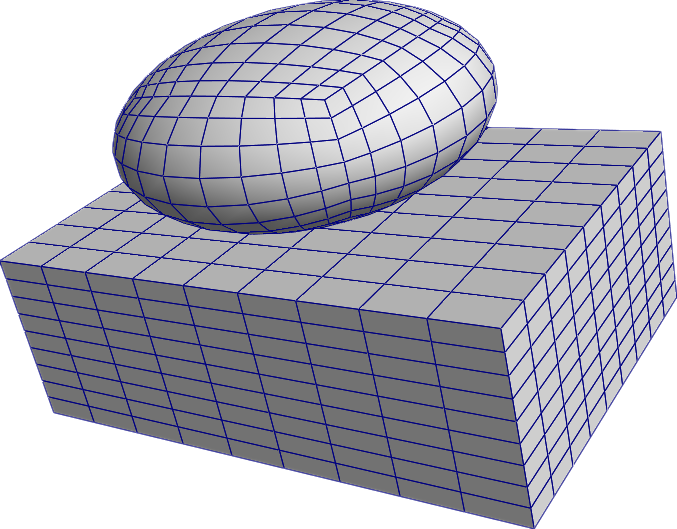
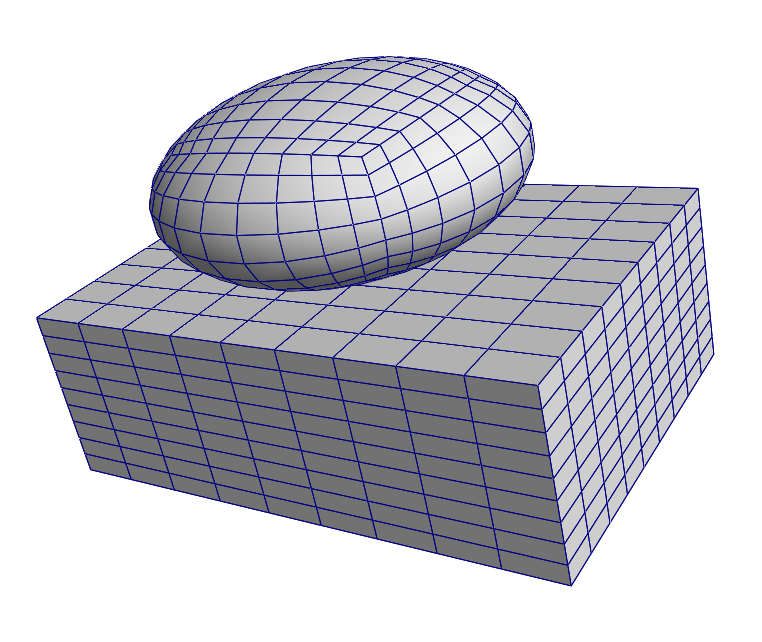
Replaced unreadable png for assembly.

diff --git a/docs/introduction.rst b/docs/introduction.rst
@@ -55,7 +55,7 @@ Example 2 - An assembly
    mesh.writeToFile(filename="assembly.inp", file_format="abaqus")
 
 
-.. figure:: ./img/assembly.png
+.. figure:: ./img/.png
    :align: center
 
    The resulting assembly of ellipsoidal and box meshes from the example 2 code.
